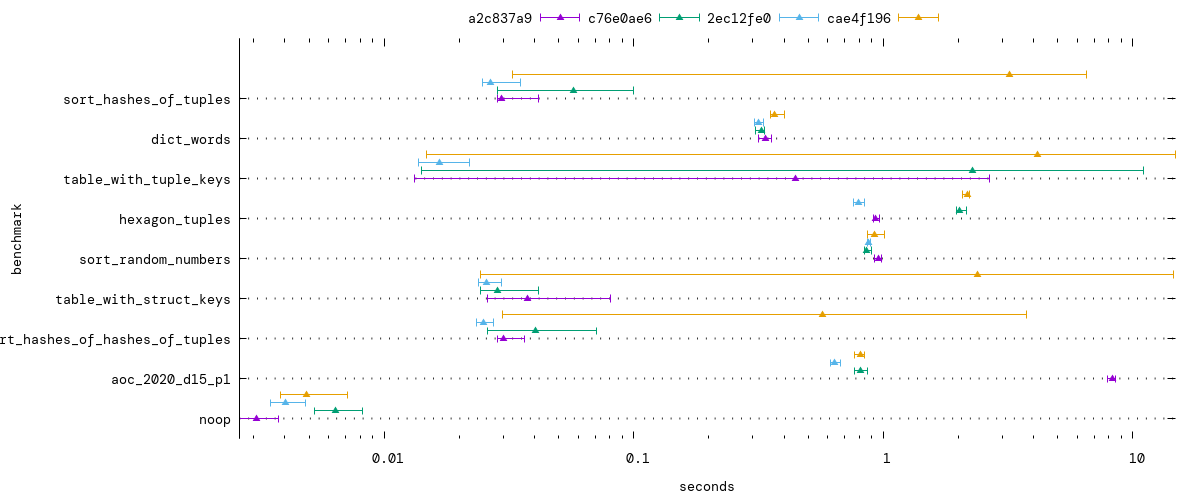
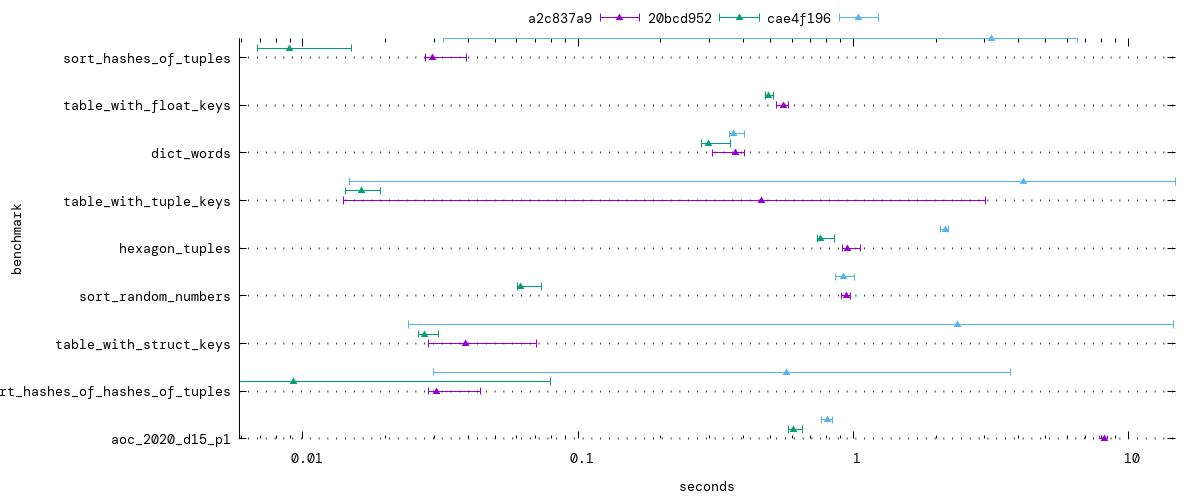
Update report.png; show only upstream commits

diff --git a/README.md b/README.md
@@ -35,8 +35,8 @@ amount of work and take the same amount of time.
 ## Results
 
 Built with `-O2 -flto` and run on `Intel(R) Core(TM) i7-8650U CPU @ 1.90GHz`.
-Names are commits; eg. `2ec12fe0` is  https://github.com/felixr/janet/commit/2ec12fe06f02deb31aec5dd29595c19359623098 and 
-`cae4f196` is  https://github.com/janet-lang/janet/commit/cae4f1962914e27aba3d40aa650ac1e63c3c5a9b
+Names are commits; 
+eg. `cae4f196` is  https://github.com/janet-lang/janet/commit/cae4f1962914e27aba3d40aa650ac1e63c3c5a9b
 
 ![benchmark results](report.png)
 
